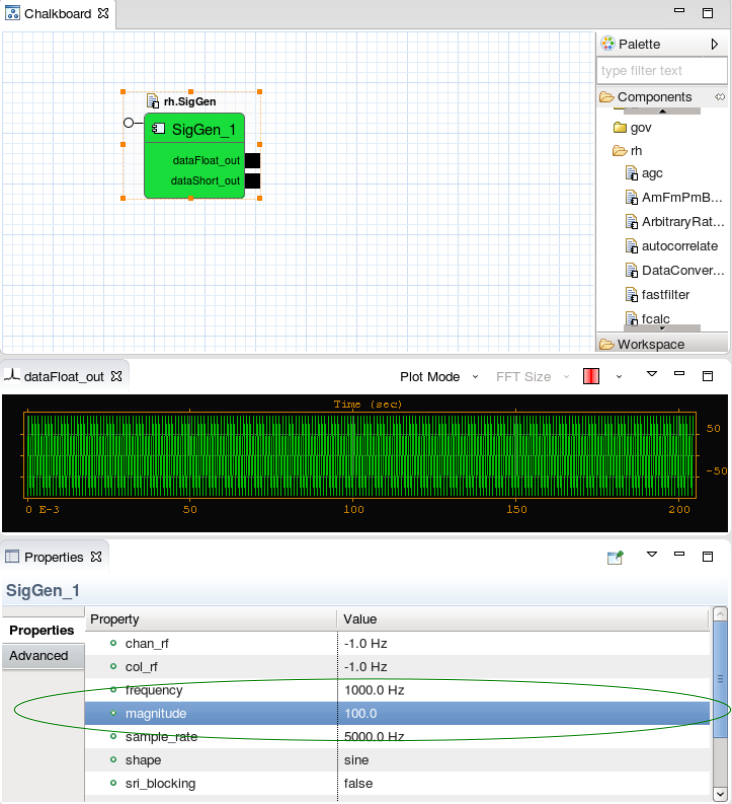
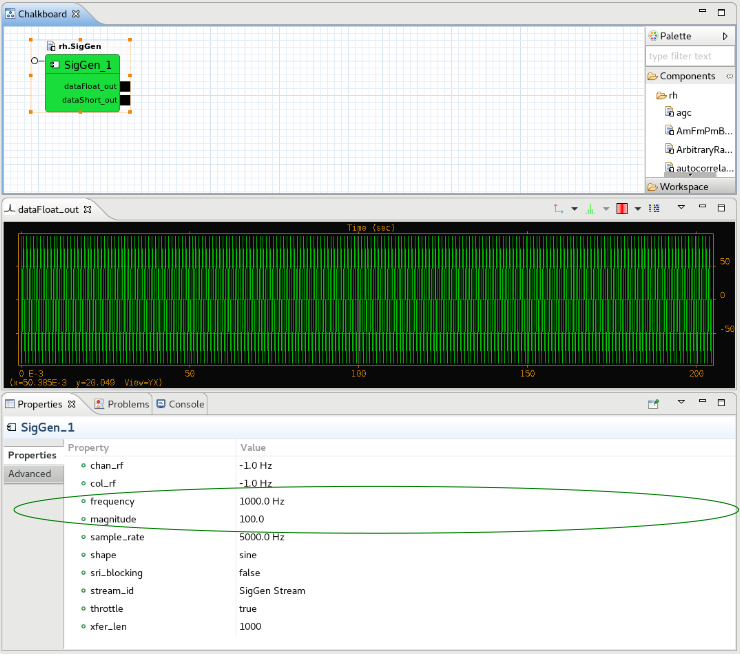
DOCS-815 - updated images of plots

diff --git a/content/manual/ide/editors-and-views/redhawk-plot-view.md b/content/manual/ide/editors-and-views/redhawk-plot-view.md
@@ -2,7 +2,7 @@
 title: "REDHAWK Plot View"
 weight: 60
 ---
-
+ ##### Plot View
 ![The REDHAWK Plot View](../../images/plot.png)
 
 When a user plots a port, the REDHAWK Plot view displays a NeXtMidas Plot.
@@ -34,6 +34,7 @@ The REDHAWK IDE contains the following controls for interacting with the active 
       - Line
       - Point
       - Raster
+      - Change Frame Size: Changes the frame size.
 
     {{% notice tip %}}
 The red icon next to the Change Plot type arrow is a toggle button that when clicked, changes the active plot to display either the Line or the Raster plot.
